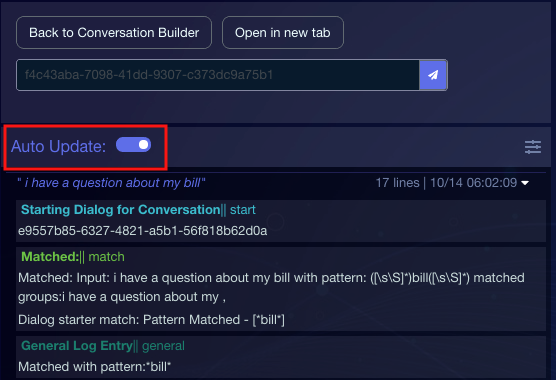
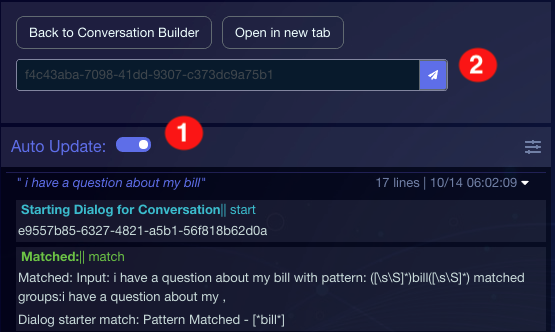
Updates to Conv Tester doc

diff --git a/pages/Documents/ConversationalAI/ConversationBuilder/Testing&Deployment/testing-debugging-post-deployment.md b/pages/Documents/ConversationalAI/ConversationBuilder/Testing&Deployment/testing-debugging-post-deployment.md
@@ -10,9 +10,9 @@ indicator: both
 ---
 
 ### Introduction
-As you design and implement a bot, you can use the [Preview](conversation-builder-testing-deployment-previewing.html) and [Bot Logs](conversation-builder-testing-deployment-debugging.html) tools, respectively, to preview the conversational experience and to debug issues. These tools assist you with early testing and debugging, so you can verify the conversational flow is working as expected as you build the bot. Notably, the tools don’t require that you deploy an agent connector for the bot because the conversation doesn’t go through Conversational Cloud. The conversation only flows from the tool to the underlying bot server and back.
+As you design and implement a bot, you can use the [Preview](conversation-builder-testing-deployment-previewing.html) and [Bot Logs](conversation-builder-testing-deployment-debugging.html) tools, respectively, to preview the conversational experience and to debug issues. These tools assist you with early testing and debugging, so you can verify the conversational flow is working as expected as you build the bot. Notably, the tools don’t require that you deploy an agent connector for the bot because the conversation doesn’t go through Conversational Cloud. The conversation only flows between the tool and the underlying bot server.
 
-In contrast, the Conversation Tester tool is designed for *post-deployment* testing and debugging. You can use the tool to:
+In contrast, the **Conversation Tester** tool is designed for testing and debugging after deployment. You can use the tool to:
 
 * Test the end-to-end flow after you have finished building and [deploying](conversation-builder-testing-deployment-deploying-to-conversational-cloud.html) a bot
 * Debug a deployed bot
@@ -21,35 +21,35 @@ The Conversation Tester lets you quickly start a conversation and view both the 
 
 <img class="fancyimage" style="width:800px" src="img/ConvoBuilder/conv_tester_example.png">
 
-With the Conversation Tester, the conversation travels from the Conversational Cloud channel, to Conversational Cloud, to the agent connector, to the bot server, and back. In short, there is end-to-end testing of the entire flow over the Web.
+With the Conversation Tester, the conversation travels from the Conversational Cloud channel, to Conversational Cloud, to the agent connector, to the bot server, and back again. In short, there is end-to-end testing of the entire flow over the Web.
 
 {: .important}
 Sometimes bots have logic that depends on data that is retrieved from the campaign used in the conversation. For example, the bot might use the engagement ID to direct the conversational flow to a particular dialog. The Conversation Tester doesn’t use a campaign, so it can’t be used for end-to-end testing of this kind of logic.
 
 #### Testing post-conversation survey bots
-You can't use the Conversation Tester to directly initiate testing of a [post-conversation survey bot](conversation-builder-bots-post-conversation-survey-bots.html). To test a survey bot, use the tool to start a conversation with a custom bot that triggers the survey bot, and bring that conversation to a close. This triggers the survey conversation as expected.
+While you can't use the Conversation Tester to directly trigger a [post-conversation survey bot](conversation-builder-bots-post-conversation-survey-bots.html), you can still test survey bots using the tool: Start a conversation with a custom bot that triggers the survey bot, and bring that conversation to a close. This triggers the survey conversation.
 
 ### Prerequisites
 The Conversation Tester requires that the entire pipeline for messaging is in place and ready:
 
 * In Conversational Cloud, there must exist a bot user (an agent) that is assigned a skill.
-* In Conversation Builder, the bot must have a deployed agent connector that's assigned to the bot user, and the agent connector must be online.
+* In Conversation Builder, the bot must have a deployed agent connector that's assigned to the Conversational Cloud bot user, and the agent connector must be online.
 
 ### Access the Conversation Tester
 You can access the Conversation Tester in two ways:
 
 * From the bot dashboard, click **Conversation Tester** on the menu bar in the upper-left corner.
-* Open a bot, click <img style="width:30px" src="img/ConvoBuilder/icon_menu_bar.png"> on the menu bar, and select **Conversation Tester**. This option is available only when the bot has an agent connector (regardless of its status).
+* Open a custom bot, click <img style="width:30px" src="img/ConvoBuilder/icon_menu_bar.png"> on the menu bar, and select **Conversation Tester**. This option is available only when the bot has an agent connector (regardless of its status).
 
 ### Start the conversation
 
 Conversational Cloud routes conversations based on skill, so to start a conversation, you need to specify the skill to which to route it.
 
-If you access the Conversation Tester from within a bot -- and the pipeline for messaging is configured correctly (see *Prerequisites* above) -- the tool automatically starts a conversation with that bot, routing it to the first, associated skill that is found.
+If you access the Conversation Tester from within a bot, the tool automatically starts a conversation with that bot, routing it to the first, associated skill that is found.
 
 <img class="fancyimage" style="width:500px" src="img/ConvoBuilder/conv_tester_start5.png">
 
-If you access the Conversation Tester from outside of a bot, if you want to change the skill in use, or if automatic selection of the skill fails for some reason, you'll need to explicitly select the skill and manually start the conversation:
+If automatic selection of the skill fails for some reason (i.e., the pipeline is not configured correctly; see *Prerequisites* above), if you want to change the skill in use, or if you access the Conversation Tester from outside of a bot, you'll need to explicitly select the skill and manually start the conversation:
 
 1. In the conversation panel on the right, click **Select Entry Point**.
 
@@ -59,20 +59,18 @@ If you access the Conversation Tester from outside of a bot, if you want to chan
 
     <img class="fancyimage" style="width:400px" src="img/ConvoBuilder/conv_tester_start2.png">
 
-    **Select Skill by Bot**: Select the bot, then the skill. For a bot to appear in the bot list, it must be deployed and online. Once you select the bot, the skill list is filtered (narrowed) to display only the skills assigned to the bot's bot agent user. This two-step method is preferable when you want to route the conversation to a specific bot, but you aren't sure of the associated skill name.
+    **Select Skill by Bot**: Select the custom bot, then the skill. For a bot to appear in the bot list, it must be deployed and online. Once you select the bot, the skill list is filtered (narrowed) to display only the skills assigned to the bot's bot agent user. This two-step method is preferable when you want to route the conversation to a specific bot, but you aren't sure of the associated skill name.
 
     **Select Skill**: Select only the skill. The skill list displays all the skills available within your organization. If you know the skill name to route to, this one-step method is faster.
 
     {: .important}
-    It's rare to have multiple bots associated with the same skill. However, if this is the case, be aware that the tool will start a conversation with the first bot that is found.
+    It's rare to have multiple bots assigned to the same skill. However, if this is the case (i.e., you have a testing scenario configured this way), be aware that the tool will start a conversation with the first bot that is found.
 
 3. Click **Start Conversation**.
 
     <img class="fancyimage" style="width:400px" src="img/ConvoBuilder/conv_tester_start3.png">
 
     This starts the conversation.
-
-    <img class="fancyimage" style="width:500px" src="img/ConvoBuilder/conv_tester_start4.png">
 
 ### Start the debugger
 
@@ -98,8 +96,8 @@ As you use the Conversation Tester, you can monitor two statuses:
 
 <img class="fancyimage" style="width:500px" src="img/ConvoBuilder/conv_tester_statuses.png">
 
-* **Connection**: This is the status of the Web socket, either "Open" or "Closed." Typically, this status is "Open" in the Production environment. But if a problem exists, the status will be "Closed." Try reloading the page in this case. A problem with the Web socket suggests there might be an issue with the LivePerson environment.
-* **Conversation**: This is the status of the conversation, either "Open" or "Closed." If you access the Conversation Tester from within a bot, but the system can't automatically select a skill to which to route the conversation, this will be "Closed." Try manually selecting a skill in this case. Additionally, this status changes based on your actions in the tool, i.e., **Mark Resolved** closes the conversation, and **Resume Conversation** opens a new conversation.
+* **Connection**: This is the status of the Web socket, either OPEN or CLOSE. Typically, this status is OPEN in the Production environment. But if a problem exists, the status will be CLOSE. Try reloading the page in this case. A problem with the Web socket suggests there might be an issue with the LivePerson environment.
+* **Conversation**: This is the status of the conversation, either OPEN or CLOSE. If you access the Conversation Tester from within a bot, but the system can't automatically select a skill to route the conversation to, this will be CLOSE. Try manually selecting a skill in this case. Additionally, this status changes based on your actions in the tool, i.e., **End Conversation** closes the conversation, and **Resume Conversation** opens a new conversation.
 
 #### Perform actions
 In the conversation panel, you can perform several actions:
@@ -108,7 +106,7 @@ In the conversation panel, you can perform several actions:
 * **Resume Conversation**: Opens a new conversation.
 * **Scroll to Bottom**: Scrolls the display to the bottom of the conversation window.
 * **Reset Bot Session**: Resets the bot session. 
-* **Mark Resolved**: Closes the conversation.
+* **End Conversation**: Closes the conversation.
 
 #### Use a different tab
 Take advantage of the ability to open the Conversation Tester in a new tab. This lets you use the tool beside other important windows.
@@ -117,9 +115,11 @@ Take advantage of the ability to open the Conversation Tester in a new tab. This
 
 ### Use the debugger
 #### Log debug messages
-Keep the **Auto Update** setting on if you want to continuously fetch the latest logs based on the conversation. If you don't need the logging, you can disable this, which keeps the connection clean.
+Keep the **Auto Update** setting **(1)** on if you want to continuously fetch the latest logs based on the conversation. If you don't need the log, you can turn it off, which keeps the connection clean. 
 
 <img class="fancyimage" style="width:500px" src="img/ConvoBuilder/conv_tester_logging.png">
+
+If you disable the automatic update of the log, you can manually refresh it by clicking <img style="width:25px" src="img/ConvoBuilder/conv_tester_logging_icon.png"> **(2)**.
 
 #### Show and hide debug messages
 
